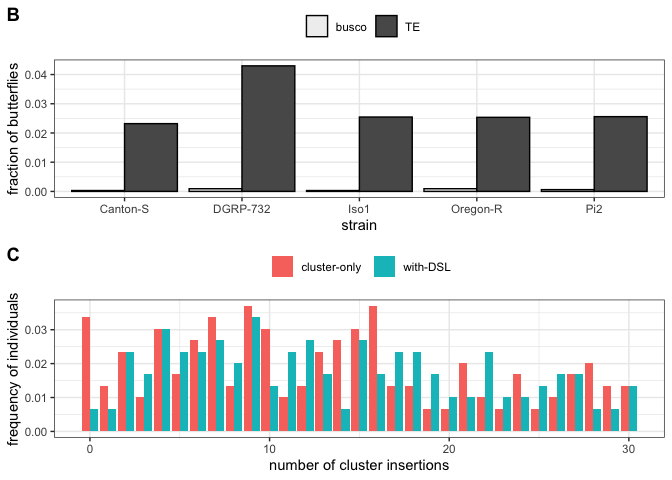
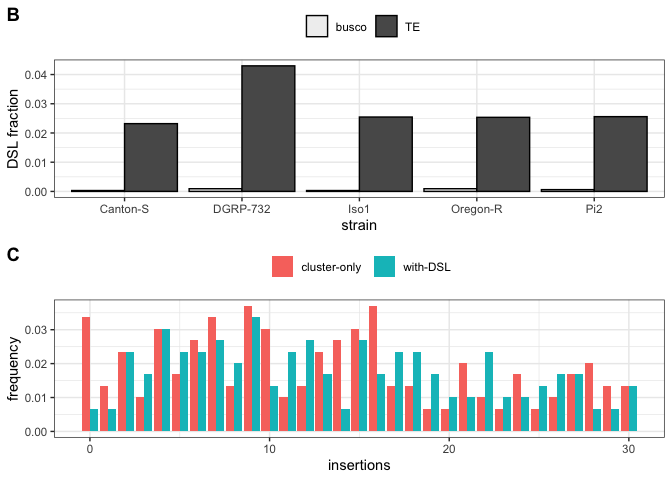
figure text adjustments

Changed region(s): [[0.4062, 0.9375, 0.6562, 1.0], [0.0, 0.5938, 0.0312, 0.9375], [0.0, 0.125, 0.0312, 0.4062]]

diff --git a/rmd-scripts/butterfly-main.md b/rmd-scripts/butterfly-main.md
@@ -178,7 +178,7 @@ t<-rbind(tbut,tclu)
 
 t<-subset(t,cluster<=30) ##for exact zoom-in
 
-ghis<-ggplot(t, aes(x=cluster, y=indsrel,fill=type))+ geom_bar(stat="identity",position = "dodge")+ylab("frequency of individuals")+xlab("number of cluster insertions")+theme_bw()+theme(legend.position="top")+scale_fill_discrete(name=NULL)
+ghis<-ggplot(t, aes(x=cluster, y=indsrel,fill=type))+ geom_bar(stat="identity",position = "dodge")+ylab("frequency")+xlab("insertions")+theme_bw()+theme(legend.position="top")+scale_fill_discrete(name=NULL)
 
 
 ####signatures at BUSCO VS TE:
@@ -295,7 +295,7 @@ frac$rel<-frac$sum.x/frac$sum.y
 frac<-subset(frac,select=c("strain.x","type.x","rel"))
 names(frac)<-c("strain","type","rel")
 
-gbt<-ggplot(frac,aes(x=strain,y=rel,alpha=type))+geom_bar(stat="identity",position="dodge",color="black") +ylab("fraction of butterflies")+xlab("strain")+theme_bw()+theme(legend.position="top")+scale_alpha_discrete(name=NULL)
+gbt<-ggplot(frac,aes(x=strain,y=rel,alpha=type))+geom_bar(stat="identity",position="dodge",color="black") +ylab("DSL fraction")+xlab("strain")+theme_bw()+theme(legend.position="top")+scale_alpha_discrete(name=NULL)
 ```
 
     ## Warning: Using alpha for a discrete variable is not advised.
